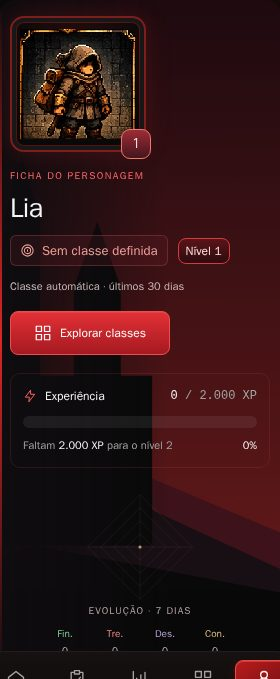
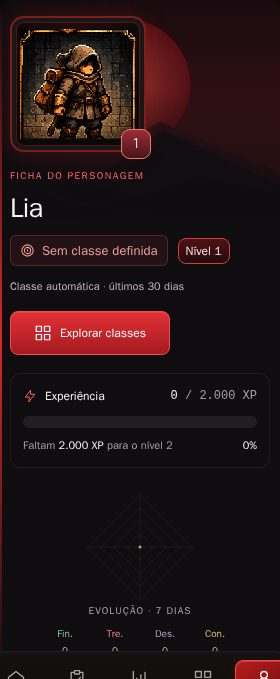
docs(profile): record profile spacing and mobile scenery adjustments

Changed region(s): [[0.3143, 0.0309, 1.0, 0.8351], [0.2286, 0.5258, 0.2571, 0.5567]]

diff --git a/docs/audits/class-gallery-2026-11-23.md b/docs/audits/class-gallery-2026-11-23.md
@@ -109,6 +109,31 @@ exigir o retrato, a ausência de `[data-avatar]` e o avatar legado salvo. O test
 do `PlayerHeader` deixou de injetar o retrato pelo slot removido e verifica que
 o cabeçalho deriva o retrato da classe e do nível recebidos.
 
+## Correção de espaçamento no Perfil
+
+Na revisão do PR, as seções do Perfil (“Nome do jogador”, “Backup de dados” e
+“Cópias de segurança dos registros”) apareciam encostadas. O problema já
+existia na `main`: as três eram irmãs em `.view-content`, sem vão definido. Elas
+passaram a ficar em `.profile-page`, uma grade com `--space-5` (20 px), o mesmo
+padrão de `.pillar-page`. A ficha (`.character-sheet`) usa o mesmo vão entre o
+cartão e o nome. Nenhuma regra global foi alterada. `audit:visual` agora mede
+os três vãos do Perfil nas cinco larguras e falha abaixo de 16 px.
+
+- [Perfil desktop com as seções espaçadas](assets/class-gallery/perfil-secoes-desktop.jpg)
+
+## Cenário do cartão no celular
+
+Também na revisão, o castelo do cenário (`JourneyLandscape`) atrapalhava a
+leitura no celular, no Perfil e na tela Início: ampliado para a altura do cartão
+em uma coluna, ficava atrás do XP e do Radar. Abaixo de 640 px, o cenário passa a
+ser uma faixa de 220 px no topo do cartão, esmaecida para baixo (opacidade 0,55),
+e o castelo fica oculto. A partir de 640 px, com o cartão em duas colunas, o
+cenário não muda. `audit:visual` verifica nas duas telas que o castelo está
+oculto abaixo de 640 px e visível acima.
+
+- [Perfil no celular, 390 px](assets/class-gallery/perfil-mobile-390.jpg)
+- [Início no celular, 390 px](assets/class-gallery/inicio-mobile-390.jpg)
+
 ## Limites e preservação
 
 Não foram alterados XP, níveis, classificação, Radar, pilares, Quests,

diff --git a/docs/design-system/responsive.md b/docs/design-system/responsive.md
@@ -23,6 +23,7 @@ O body tem largura mínima de 320 px. O conteúdo usa `min-width: 0`, grades
 | Radar com menos de 400 px de largura  | Container query `radar`: rótulos e escala maiores no viewBox                                                |
 | Visão geral de Estatísticas           | Radar original em largura total e paisagem abaixo, em todas as larguras                                     |
 | Cartões de Estatísticas               | Uma coluna no celular, duas a partir de 768 px e quatro a partir de 1280 px                                 |
+| Cenário do cartão do jogador < 640 px | `JourneyLandscape` vira faixa de 220 px no topo (opacidade 0,55), sem castelo; XP e Radar sobre fundo limpo |
 | Calendário de atividades              | Quadrados de 24 a 30 px com vão de 6 px; colunas fluidas, pilares fixos e rolagem/arraste no próprio painel |
 
 Tailwind usa `sm`, `md`, `lg`, `xl` padrão (640/768/1024/1280 px). O CSS também

diff --git a/apps/web/src/modules/profile/README.md b/apps/web/src/modules/profile/README.md
@@ -6,6 +6,10 @@ arquivo; ver [backup manual](../../../../../docs/architecture/data-backup.md)) e
 as cópias de segurança dos registros. O mesmo `PlayerHeader` aparece no dashboard. Conquistas
 continuam disponíveis no dashboard e em Estatísticas.
 
+As seções do Perfil (ficha, nome, backup e cópias) ficam em `.profile-page`,
+uma grade com o mesmo vão de 20 px (`--space-5`) das páginas dos pilares; a
+auditoria visual falha se duas seções encostarem.
+
 `projectCharacter` usa os mesmos registros reais, confirmações históricas e
 `scorePeriod` do Radar. A classificação usa sempre os últimos **30 dias**, incluindo
 hoje e os 29 anteriores, sem depender de `preferences.radarPeriod`. Histórico
